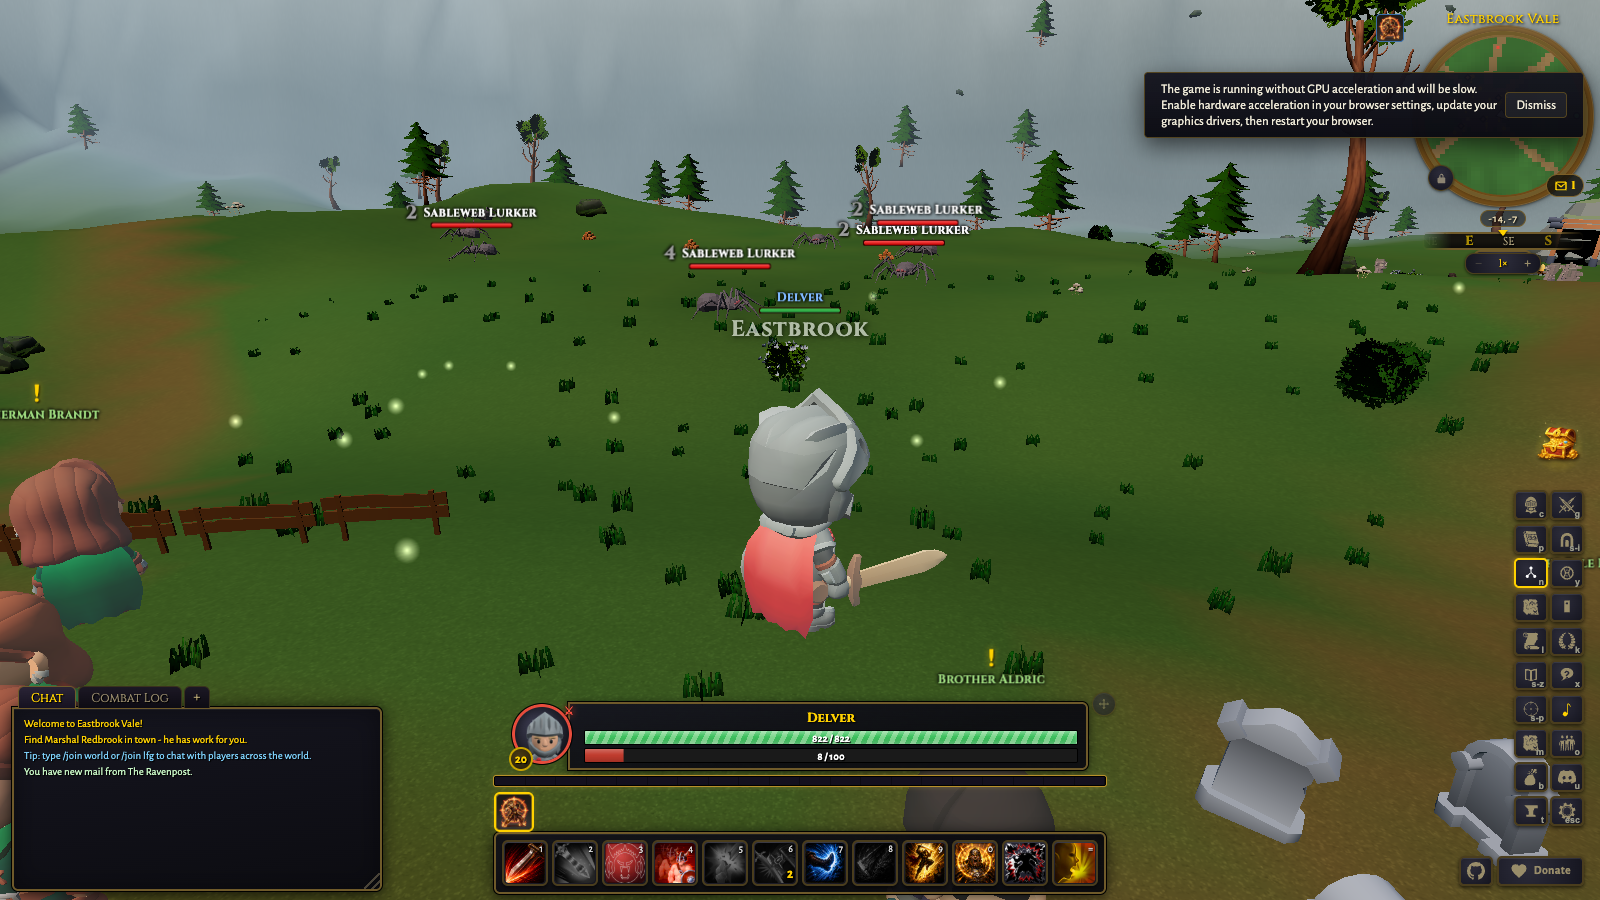
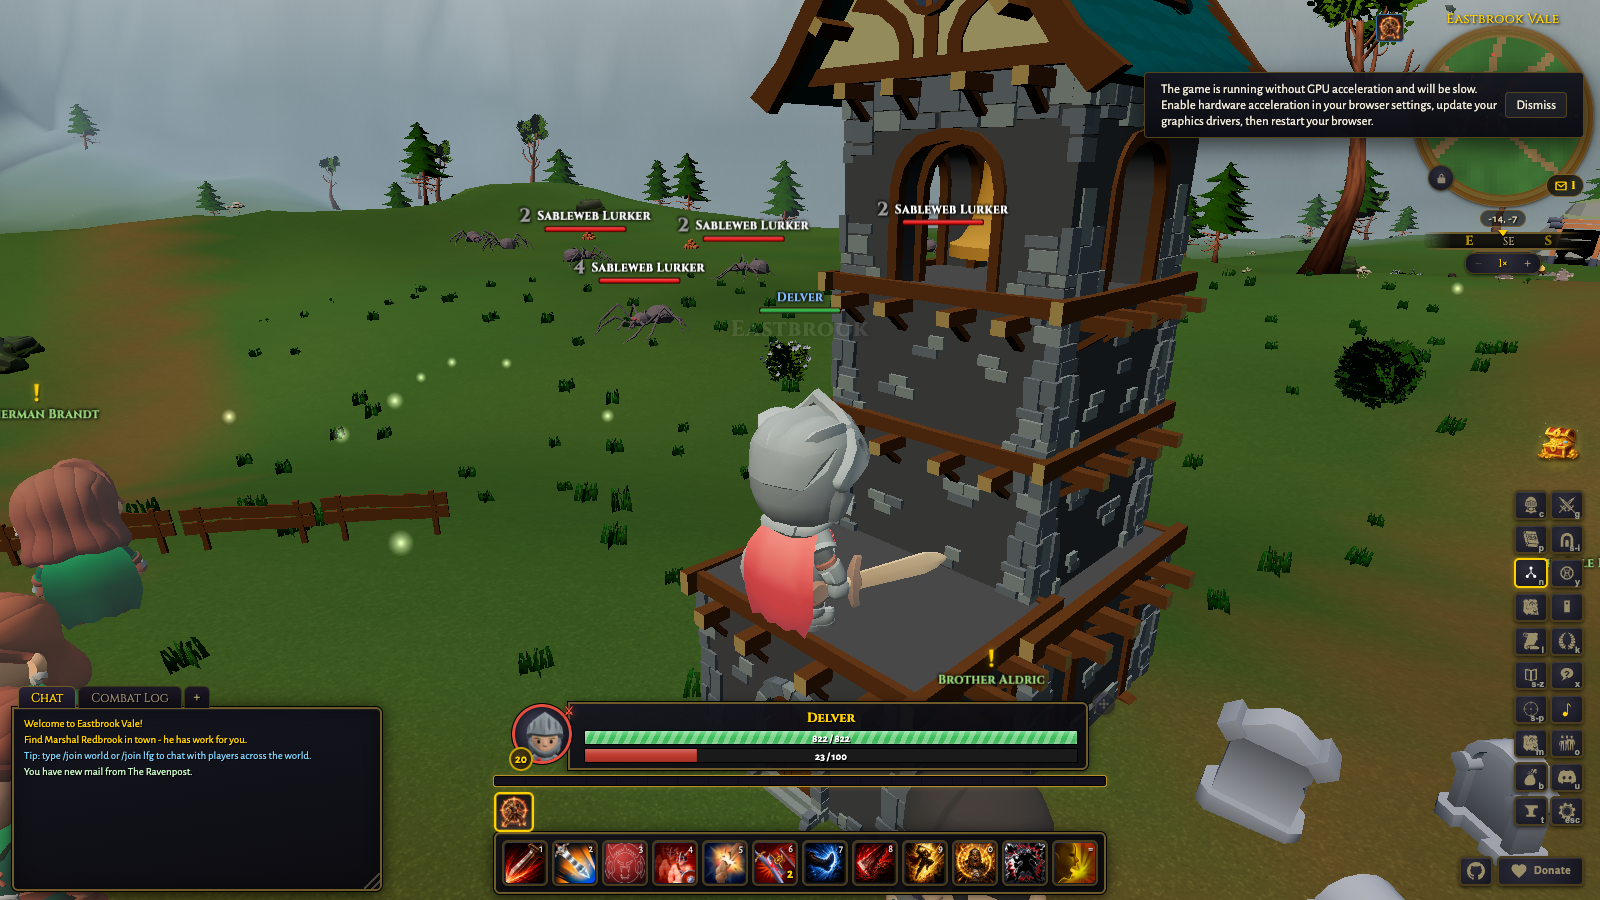
fix(render): hideables register their real drawn heights, so standing on one never vanishes it
The camera-ghost hide test treats an eye inside a footprint below its
registered top as occluded. The chapel registered ONE hideable for the
whole composed building at the bell tower's 10.8 top, so standing on its
2.4 hall roof put the eye inside-and-below and vanished the roof underfoot;
every ruin column registered the intact monolith's 4.3 top, so standing on
a broken stump vanished the stump. The chapel's tower and hall are now
separate hideables at their own footprints and heights (the tower still
ghosts when it genuinely blocks the camera), and each ruin column registers
the same per-column height its collider uses. Captures added: standing on
the chapel hall roof with the tower drawn, and on a Reliquary Hill stump.

diff --git a/src/render/props.ts b/src/render/props.ts
@@ -452,6 +452,13 @@ function keyRand(key: number, n: number): number {
   return hash2(Math.round(key * 97), n * 7919, 0x9e3779);
 }
 
+// Rotate a parent-local XZ offset by the parent's yaw (colliders.rotY twin).
+function rotLocal(lx: number, lz: number, rot: number): { x: number; z: number } {
+  const c = Math.cos(rot),
+    s = Math.sin(rot);
+  return { x: lx * c + lz * s, z: -lx * s + lz * c };
+}
+
 type Scale = number | [number, number, number];
 
 function setScale(o: THREE.Object3D, s: Scale): void {
@@ -817,9 +824,15 @@ export function buildProps(seed: number, delveLabel?: (delveId: string) => strin
       // numbers come from sim/prop_layout.ts (CHAPEL_TOWER/CHAPEL_HALL): the
       // collider derives the SAME shapes, so the hall roof a player climbs
       // onto is exactly the roof drawn here.
-      const g = new THREE.Group();
+      //
+      // The two parts are SEPARATE hideables at their own real heights: a
+      // player STANDS on the hall roof, and one whole-chapel footprint at the
+      // tower's top would put their eye inside-and-below it, vanishing the
+      // very roof underfoot. Split, the hall never hides while stood on and
+      // the tower still ghosts when it genuinely blocks the camera.
+      const gTower = new THREE.Group();
       const tower = propAsset('bellTower');
-      addParts(g, 'bellTower', {
+      addParts(gTower, 'bellTower', {
         z: CHAPEL_TOWER.dz,
         scale: [
           (b.w * CHAPEL_TOWER.wScale) / tower.size.x,
@@ -827,8 +840,24 @@ export function buildProps(seed: number, delveLabel?: (delveId: string) => strin
           (b.d * CHAPEL_TOWER.dScale) / tower.size.z,
         ],
       });
+      gTower.position.set(b.x, y - CHAPEL_HALL.sink, b.z);
+      gTower.rotation.y = b.rot;
+      group.add(shadowed(gTower));
+      const towerOff = rotLocal(0, CHAPEL_TOWER.dz, b.rot);
+      registerHideable(
+        gTower,
+        obbFootprint(
+          b.x + towerOff.x,
+          b.z + towerOff.z,
+          (b.w * CHAPEL_TOWER.wScale) / 2,
+          (b.d * CHAPEL_TOWER.dScale) / 2,
+          b.rot,
+          roofY,
+        ),
+      );
+      const gHall = new THREE.Group();
       const hall = propAsset('house3');
-      addParts(g, 'house3', {
+      addParts(gHall, 'house3', {
         z: b.d / 2 - CHAPEL_HALL.dzFromFront,
         scale: [
           (b.w * CHAPEL_HALL.wScale) / hall.size.x,
@@ -836,10 +865,21 @@ export function buildProps(seed: number, delveLabel?: (delveId: string) => strin
           CHAPEL_HALL.depth / hall.size.z,
         ],
       });
-      g.position.set(b.x, y - CHAPEL_HALL.sink, b.z);
-      g.rotation.y = b.rot;
-      group.add(shadowed(g));
-      registerHideable(g, obbFootprint(b.x, b.z, b.w / 2, b.d / 2, b.rot, roofY));
+      gHall.position.set(b.x, y - CHAPEL_HALL.sink, b.z);
+      gHall.rotation.y = b.rot;
+      group.add(shadowed(gHall));
+      const hallOff = rotLocal(0, b.d / 2 - CHAPEL_HALL.dzFromFront, b.rot);
+      registerHideable(
+        gHall,
+        obbFootprint(
+          b.x + hallOff.x,
+          b.z + hallOff.z,
+          (b.w * CHAPEL_HALL.wScale) / 2,
+          CHAPEL_HALL.depth / 2,
+          b.rot,
+          y + CHAPEL_HALL.height,
+        ),
+      );
       continue;
     }
     const asset: PropKey =
@@ -1081,7 +1121,13 @@ export function buildProps(seed: number, delveLabel?: (delveId: string) => strin
       });
       g.position.set(x, y - 0.1, z);
       group.add(shadowed(g));
-      registerHideable(g, circleFootprint(x, z, 0.6, y + 4.3, 2.2));
+      // Hideable at the column's REAL drawn top, not the intact monolith's:
+      // broken stumps are standable now, and registering them tall would put
+      // a standing player's eye inside-and-below the footprint, vanishing
+      // the stump underfoot. Same height math as the collider (native tops
+      // 1.0 intact / 0.65 broken, times the y scale, minus the 0.1 sink).
+      const colTop = intact ? sy - 0.1 : 0.65 * sy - 0.1;
+      registerHideable(g, circleFootprint(x, z, 0.6, y + colTop, 2.2));
     }
     if (lowProps) continue;
     // toppled relics at the ring's heart: half-buried head + fallen column
